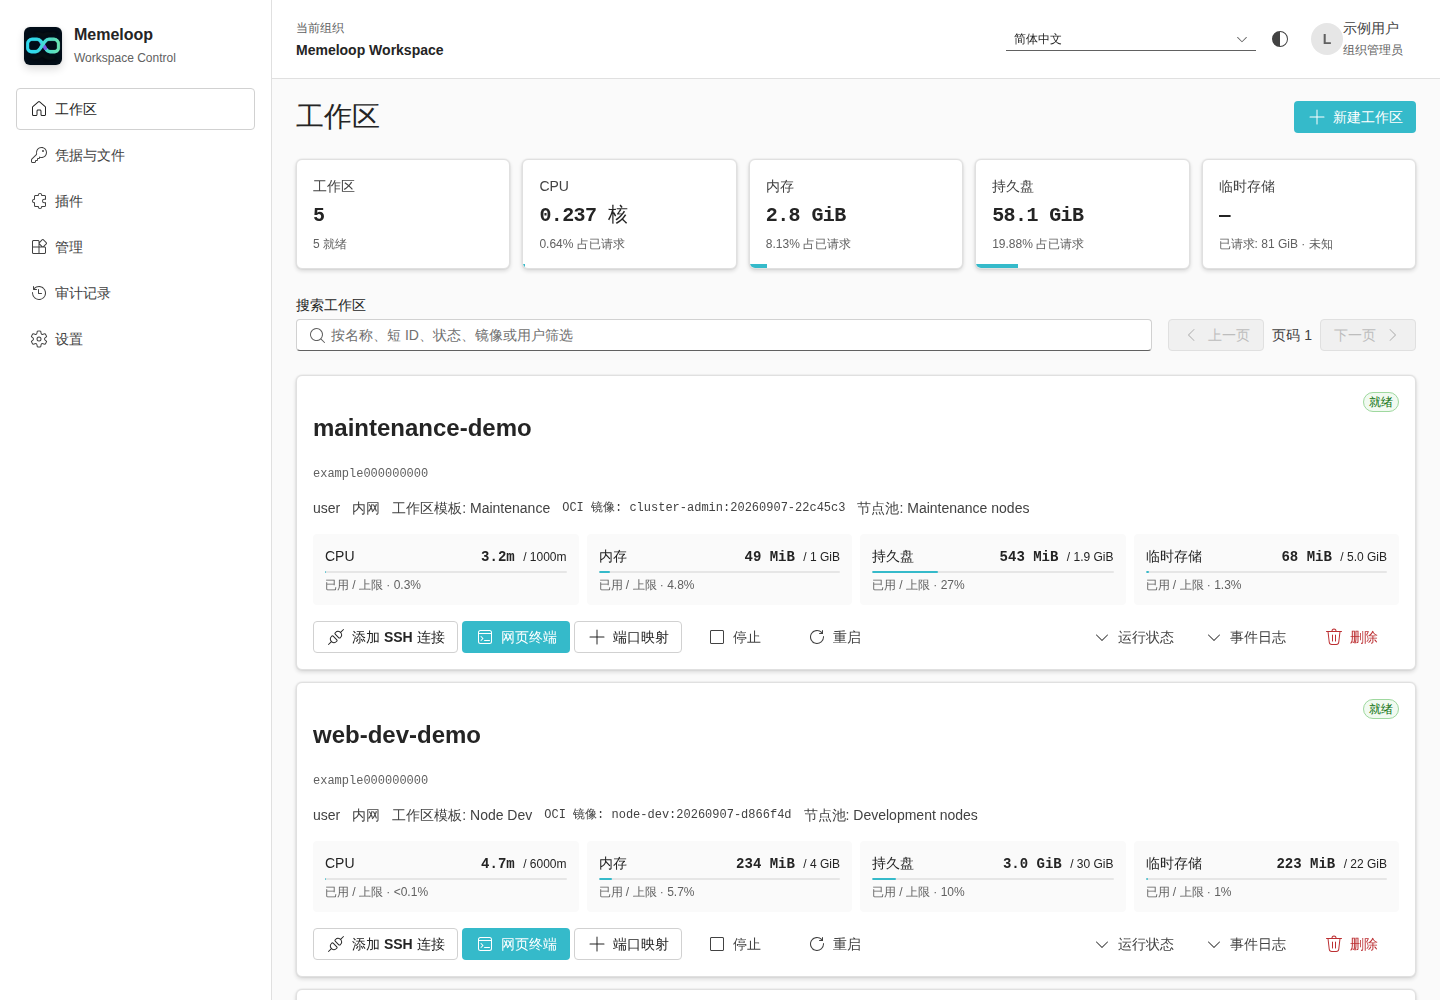
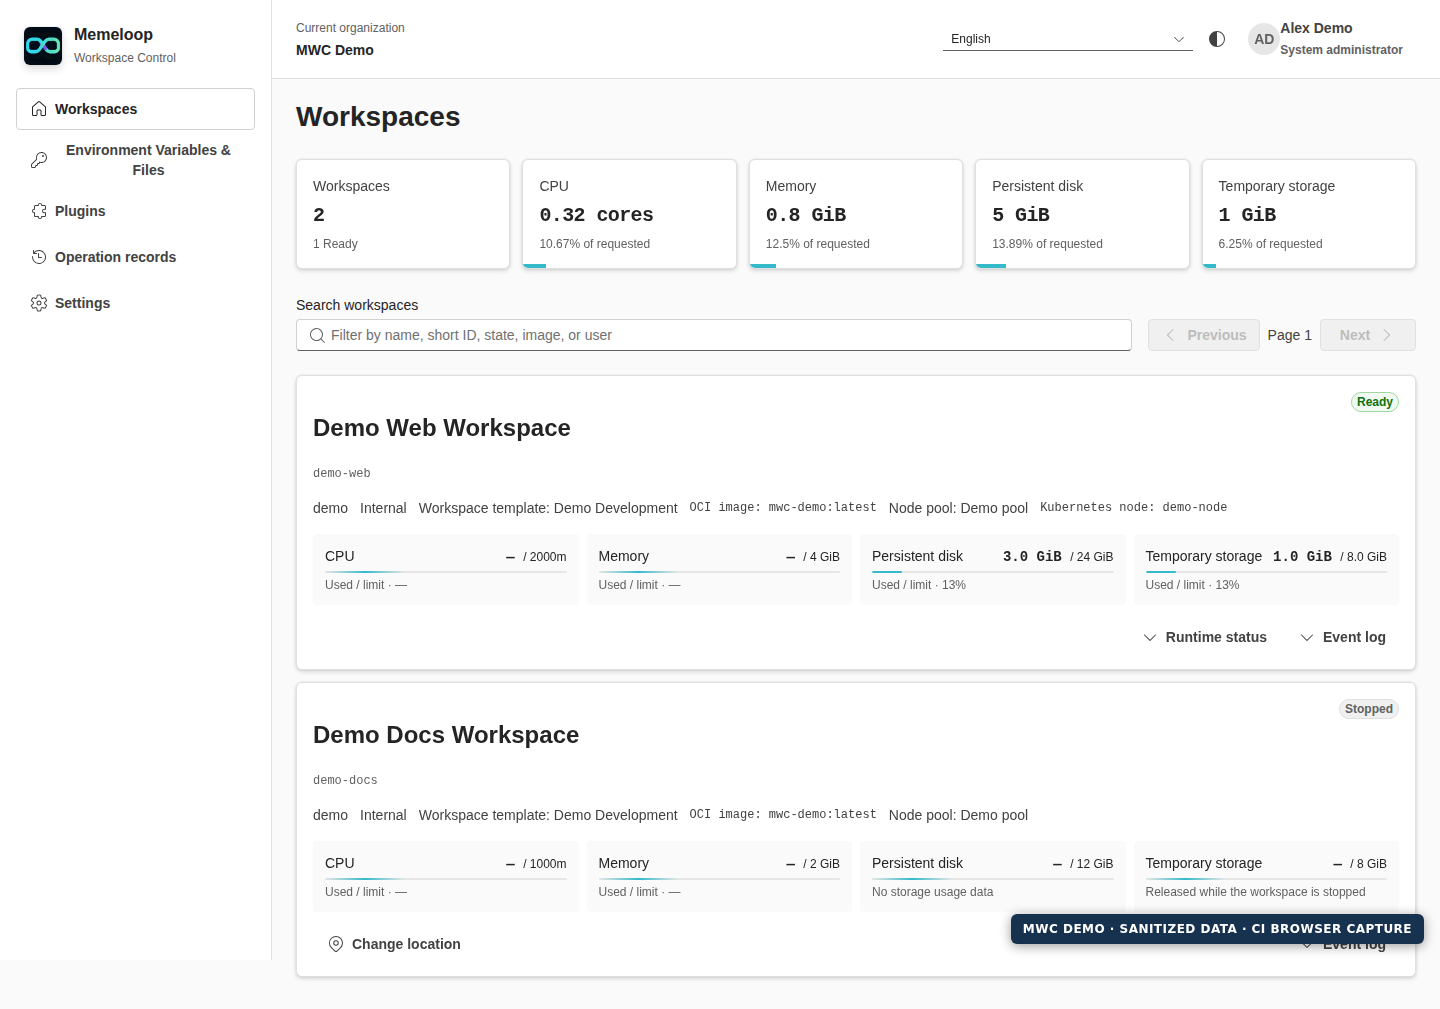
docs: publish CI-rendered screenshots and strengthen role-specific browser checks

diff --git a/docs/settings.md b/docs/settings.md
@@ -10,6 +10,11 @@ sidebar_position: 6
 The console has one **Settings** navigation entry for personal preferences and
 administrative controls. Older `#administration` links continue to open it.
 
+![Unified Settings in the CI browser with sanitized MWC Demo data](/img/screenshots/settings-desktop.png)
+
+All screenshots on this page are CI browser captures of sanitized demo data,
+not production accounts or secrets.
+
 ## Find a setting
 
 Choose **Personal**, **Organization**, or **System**, then search for a section
@@ -17,6 +22,8 @@ by its title, description, or related term. Search filters individual sections,
 not just the whole category. Only sections you are authorized to use appear in
 the category list or search results; a missing section may require a different
 role or API-key scope. Empty results mean no accessible section matches.
+
+![Search narrowed to the appearance and language section](/img/screenshots/settings-search.png)
 
 Personal settings include your profile, appearance (theme and language), and API
 keys. Organization settings include current organization selection and permitted
@@ -33,6 +40,8 @@ contains metadata only; the token is fetched on the explicit Copy action and
 should be stored in a password manager. Authorized administrators can copy a
 different user's retained key in **Organization → Users and roles → Credential
 configuration**. Access is governed by the same permissions as key management.
+
+![Personal API-key summary in the sanitized demo; no token value is shown](/img/screenshots/user-api-keys.png)
 
 Older hash-only keys have no recoverable plaintext. Copy cannot reconstruct
 them. Create a replacement key intentionally and revoke the old one after

diff --git a/docs-site/i18n/zh/docusaurus-plugin-content-docs/current/settings.md b/docs-site/i18n/zh/docusaurus-plugin-content-docs/current/settings.md
@@ -10,12 +10,18 @@ sidebar_position: 6
 控制台只有一个 **设置** 入口，合并个人偏好与管理功能。旧的
 `#administration` 链接仍可打开设置。
 
+![CI 浏览器截取的统一设置，使用脱敏 MWC Demo 数据](/img/screenshots/settings-desktop.png)
+
+本页截图均由 CI 浏览器使用脱敏演示数据生成，不包含生产账号或密钥。
+
 ## 查找设置
 
 先选 **个人**、**组织** 或 **系统**，再按标题、说明或相关词搜索。搜索会
 筛选每个设置区块，而不是只匹配整个分类。分类与结果只显示当前角色及 API
 密钥 scope 有权访问的区块；未显示的管理区块可能需要额外权限。没有匹配项时
 会显示空结果。
+
+![搜索结果仅显示外观与语言区块](/img/screenshots/settings-search.png)
 
 个人设置包含个人资料、外观（主题与语言）和 API 密钥。
 组织分类包含当前组织选择、用户与角色及其他可访问的组织级控制；系统管理员可查看系统级管理功能。
@@ -27,6 +33,8 @@ sidebar_position: 6
 页面后仍可再次复制。列表仅返回摘要；仅在明确点击复制时获取密钥值，请将
 其保存到密码管理器。获授权的管理员可在 **组织 → 用户与角色 → 凭据配置**
 中复制其他用户已保留明文的密钥，权限规则与密钥管理一致。
+
+![脱敏演示中的个人 API 密钥摘要，不显示密钥明文](/img/screenshots/user-api-keys.png)
 
 旧的仅存哈希的密钥无法恢复明文。请主动创建替换密钥，更新使用方后吊销
 旧密钥；系统不会自动轮换。

diff --git a/README.zh-CN.md b/README.zh-CN.md
@@ -24,6 +24,8 @@ Memeloop Workspace Control（MWC）是一个开源的 Kubernetes 工作区控制
 - **WebAssembly 插件** —— 创建策略、API 中间件、自定义路由和控制台
   界面，基于版本化 WIT 接口。
 
+![CI 浏览器截取的统一设置，使用脱敏 MWC Demo 数据](docs-site/static/img/screenshots/settings-desktop.png)
+
 ## 架构
 
 MWC 以单一控制面服务的形式运行，由 SQL 数据库支撑。它调用 Kubernetes

diff --git a/README.md b/README.md
@@ -27,6 +27,8 @@ authenticated port mappings.
 - **WebAssembly plugins** — creation policies, API middleware, custom routes,
   and console surfaces through a versioned WIT interface.
 
+![Unified Settings captured in CI with sanitized MWC Demo data](docs-site/static/img/screenshots/settings-desktop.png)
+
 ## Architecture
 
 MWC runs as a single control-plane service backed by a SQL database. It drives
